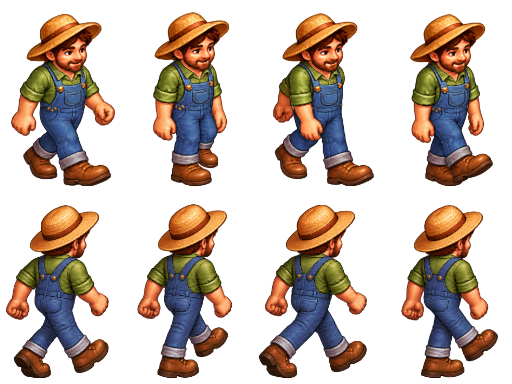
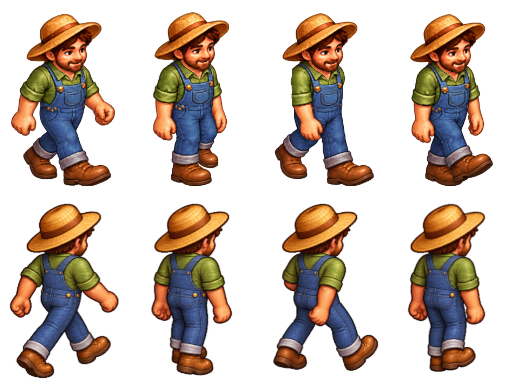
Refine farmer walking poses and arm occlusion

diff --git a/tests/browser/walking-facing.spec.ts b/tests/browser/walking-facing.spec.ts
@@ -1,8 +1,15 @@
 import { openCanvasHarness } from "./canvas-harness";
 import { test, expect } from "./fixtures";
 
+type WalkSample = {
+  frame: number;
+  flipX: boolean;
+  dx: number;
+  dy: number;
+};
+
 for (const variant of ["male", "female"] as const) {
-  test(`${variant} walks with coherent front and rear poses in all four directions`, async ({
+  test(`${variant} mirrors complete walking sprites to match travel in all four directions`, async ({
     page,
   }) => {
     await page.goto(`/?instance=validation-facing-${variant}`);
@@ -24,6 +31,29 @@ for (const variant of ["male", "female"] as const) {
     await page.locator('[data-cell="20,20"]').press("Enter");
     await expect(canvas).toHaveAttribute("data-farmer-cell", "20,20");
     await expect(canvas).toHaveAttribute("data-farmer-motion", "idle");
+    await page.evaluate(async () => {
+      const modulePath = "/src/game/farmer.ts";
+      const { Farmer } = await import(modulePath);
+      const original = Farmer.prototype.update;
+      const observed = window as unknown as { walkSamples: WalkSample[] };
+      observed.walkSamples = [];
+      Farmer.prototype.update = function (
+        this: import("../../src/game/farmer").Farmer,
+        ...args: Parameters<import("../../src/game/farmer").Farmer["update"]>
+      ) {
+        const walking = this["route"].length > 0;
+        const { x, y } = this.view;
+        original.apply(this, args);
+        if (walking && (this.view.x !== x || this.view.y !== y)) {
+          observed.walkSamples.push({
+            frame: Number(this["art"].frame.name),
+            flipX: this["art"].flipX,
+            dx: this.view.x - x,
+            dy: this.view.y - y,
+          });
+        }
+      };
+    });
     for (const [cell, facing] of [
       ["20,24", "front-right"],
       ["24,24", "front-left"],
@@ -31,6 +61,9 @@ for (const variant of ["male", "female"] as const) {
       ["20,20", "back-right"],
     ]) {
       await page.keyboard.press("Escape");
+      await page.evaluate(() => {
+        (window as unknown as { walkSamples: WalkSample[] }).walkSamples = [];
+      });
       await page.locator(`[data-cell="${cell}"]`).press("Enter");
       // Observe the transient pose atomically before arrival can replace it.
       await page.waitForFunction(
@@ -53,6 +86,19 @@ for (const variant of ["male", "female"] as const) {
       );
       await expect(canvas).toHaveAttribute("data-farmer-cell", cell);
       await expect(canvas).toHaveAttribute("data-farmer-motion", "idle");
+      const samples = await page.evaluate(
+        () => (window as unknown as { walkSamples: WalkSample[] }).walkSamples,
+      );
+      const rear = facing.startsWith("back");
+      const left = facing.endsWith("left");
+      expect(
+        [...new Set(samples.map((sample) => sample.frame))].sort(),
+      ).toEqual(rear ? [4, 5, 6, 7] : [0, 1, 2, 3]);
+      for (const sample of samples) {
+        expect(sample.flipX).toBe(left);
+        expect(Math.sign(sample.dx)).toBe(left ? -1 : 1);
+        expect(Math.sign(sample.dy)).toBe(rear ? -1 : 1);
+      }
     }
   });
 }

diff --git a/public/art/farmer-walk.md b/public/art/farmer-walk.md
@@ -16,32 +16,39 @@ The accepted front-strip prompt, followed by the targeted correction, was:
 
 > Preserve the character and four cells. Reduce the marching stride to a relaxed walking step. In pose 2, the far boot passes close to the supporting ankle rather than lifting to hip height. In pose 4, the far leg supports while the near boot passes forward. Preserve opposite contact legs in poses 1 and 3.
 
-The accepted rear-strip prompt and corrections were:
+## Rear walk geometry
 
-> Render the four-panel motion guide as the rear of the same farmer, with the original idle artwork supplying identity and style. Face upper right, showing the back of the hat, shirt and overalls. Preserve four distinct leg arrangements, compact proportions and equal scale. Arms counter-swing beside the torso. Transparent background, no labels, ground or shadows.
+The rear row uses one fixed upper-right heading. The head, shoulders, pelvis, knees, and both boot toes share that heading throughout the cycle. Both legs swing along parallel upper-right/lower-left paths, with opposite arm swings. The contact poses alternate which leg leads; the passing poses bring the feet together with a low bent knee. A trailing foot stays on its own path instead of kicking sideways toward the opposite screen corner.
 
-> Change only panel 3's lower body: the right boot trails at lower right with its sole visible; the left boot is farther away, showing its toe/side. Keep the legs separate. Preserve the other panels and the head, torso and arms.
+The built-in image tool used the original front artwork for identity and style, plus a four-pose skeletal guide for the rear walk. The generation brief was:
 
-> Change only panel 1's arms: the left arm swings forward around the body's side while the right arm swings back, visible outside the right hip. Preserve all leg poses and other panels.
+> Render the four skeletal poses as the same compact farmer, viewed from behind while moving upper-right. Preserve the straw hat, green shirt, denim overalls, chunky boots, and warm painted pixel style. Keep head, torso, hips, knees, and both toes facing upper-right in every pose. The legs alternate on parallel diagonal paths, and arms swing opposite their corresponding legs. Use low passing steps, a stable head and torso, equal scale, and transparent gutters. No labels, ground, or shadows.
 
-The female conversion prompt, applied separately to front and rear strips, was:
+The targeted third-pose correction was:
 
-> Preserve the four distinct poses, scale, layout and transparent background. Change only identity to the existing female farmer: the same young adult woman, face and eyes, brown braid, no facial hair, straw hat, green shirt, denim overalls and chunky boots. Match the original female idle and rear artwork. Do not change steps, arm placement or camera angle.
+> Move the near leg forward toward screen right, showing the boot's side and toe pointing upper-right. Move the far leg back toward screen left, partly behind the near leg. The near thigh overlaps in front of the far thigh. Swing the near arm back beside the hip and the far arm forward behind the torso. Preserve the head, torso, and the other poses. Both boots must retain the same upper-right heading.
 
-The final arm-continuity edit, applied to both variants and views, was:
+The female conversion preserved these poses and changed only identity to the existing female farmer, including her brown braid. Each rear strip uses a uniform scale and aligned hat silhouettes. Extraction keeps complete connected silhouettes even where a boot crosses a source-cell boundary. The original front rows are copied without resampling.
 
-> Preserve all character identity, body proportions, leg and boot poses, scale and layout. Change only arms in passing panels 2 and 4 to hang relaxed nearly vertically beside the hips, hands alongside upper thighs. These are neutral intermediate poses between opposite arm swings. Soften the front panel 3 forward swing so the hand stays near the hip rather than crossing the bib. Keep contact panels and all leg phases unchanged.
+## Four screen directions
 
-## Rear cycle alignment
+The renderer chooses the front or rear row from vertical screen movement and mirrors the entire sprite for leftward movement. It never flips body parts separately.
 
-The rear row was rebuilt with a four-pose motion guide so the feet stride along the same heading as the head, torso, and hips. The contact poses alternate the near and far leading leg, with a passing pose between them. Both boot toes follow the travel direction instead of spreading sideways. All front-row pixels were preserved.
+| Screen travel | Row | Whole-sprite horizontal mirror |
+| --- | --- | --- |
+| Down-right | Front, frames 0–3 | No |
+| Down-left | Front, frames 0–3 | Yes |
+| Up-right | Rear, frames 4–7 | No |
+| Up-left | Rear, frames 4–7 | Yes |
 
-The rear generation used the approved front artwork for identity and a separate skeletal guide for poses:
+The browser direction checks observe actual sprite frames, horizontal mirroring, and projected movement for both farmers. Every direction must visit all four poses. Visual review covers the complete cycle and its mirrored version because frame metadata alone cannot verify painted anatomy.
 
-> Render four distinct rear three-quarter walking poses. The near leg leads in frame 1, supports in frame 2, trails in frame 3, and passes in frame 4. The far leg does the opposite. Keep the head, shoulders, pelvis, knees, and toes facing the same rightward heading. Legs swing forward and backward along that heading, not sideways. Preserve the original stocky proportions, clothing, hat, and painted style. Four evenly spaced full bodies, consistent scale, transparent background.
+## Front arm occlusion
 
-A targeted follow-up corrected the fourth pose's leg overlap and softened the intermediate arm positions:
+In the third front-facing pose (frame 2), the far arm is hidden behind the torso. Its old protruding hand and upper sleeve read as an extra arm coming out of the farmer's back. A local cutout correction removes the entire exposed far arm, including its sleeve, for both farmers while preserving the foreground sleeve, arm, and hand. The female farmer's braid keeps its original contour. Every other frame, including the rear rows, retains its pixels from the direction-alignment revision.
 
-> In panel 4, the near leg swings forward across and in front of the far supporting leg, opposite panel 2. Preserve the other leg poses and heading. Use relaxed intermediate arm positions in panels 2 and 4.
+The built-in image tool received each existing third pose with this edit prompt:
 
-The female conversion preserved those four rear poses and changed only identity to the original female artwork, including her face and braid. Each complete source row was uniformly scaled and packed into the existing 128 × 192 cells with the existing foot anchor; no separately scaled body parts or rendering changes were introduced.
+> Remove the entire stray far arm, including the small green upper-arm and sleeve lump protruding to the left behind the large foreground sleeve. That arm is fully occluded behind the torso at this gait phase. Replace it with transparency so the back contour follows the torso without a second sleeve. Preserve the female farmer's braid. Preserve the foreground sleeve and arm, pose, head, clothing, legs, boots, character identity, and painted style. Do not add another hand.
+
+Only the corrected cutout around the stray arm is composited into the original frame. The mirrored front-left cycle uses the same corrected pose.
